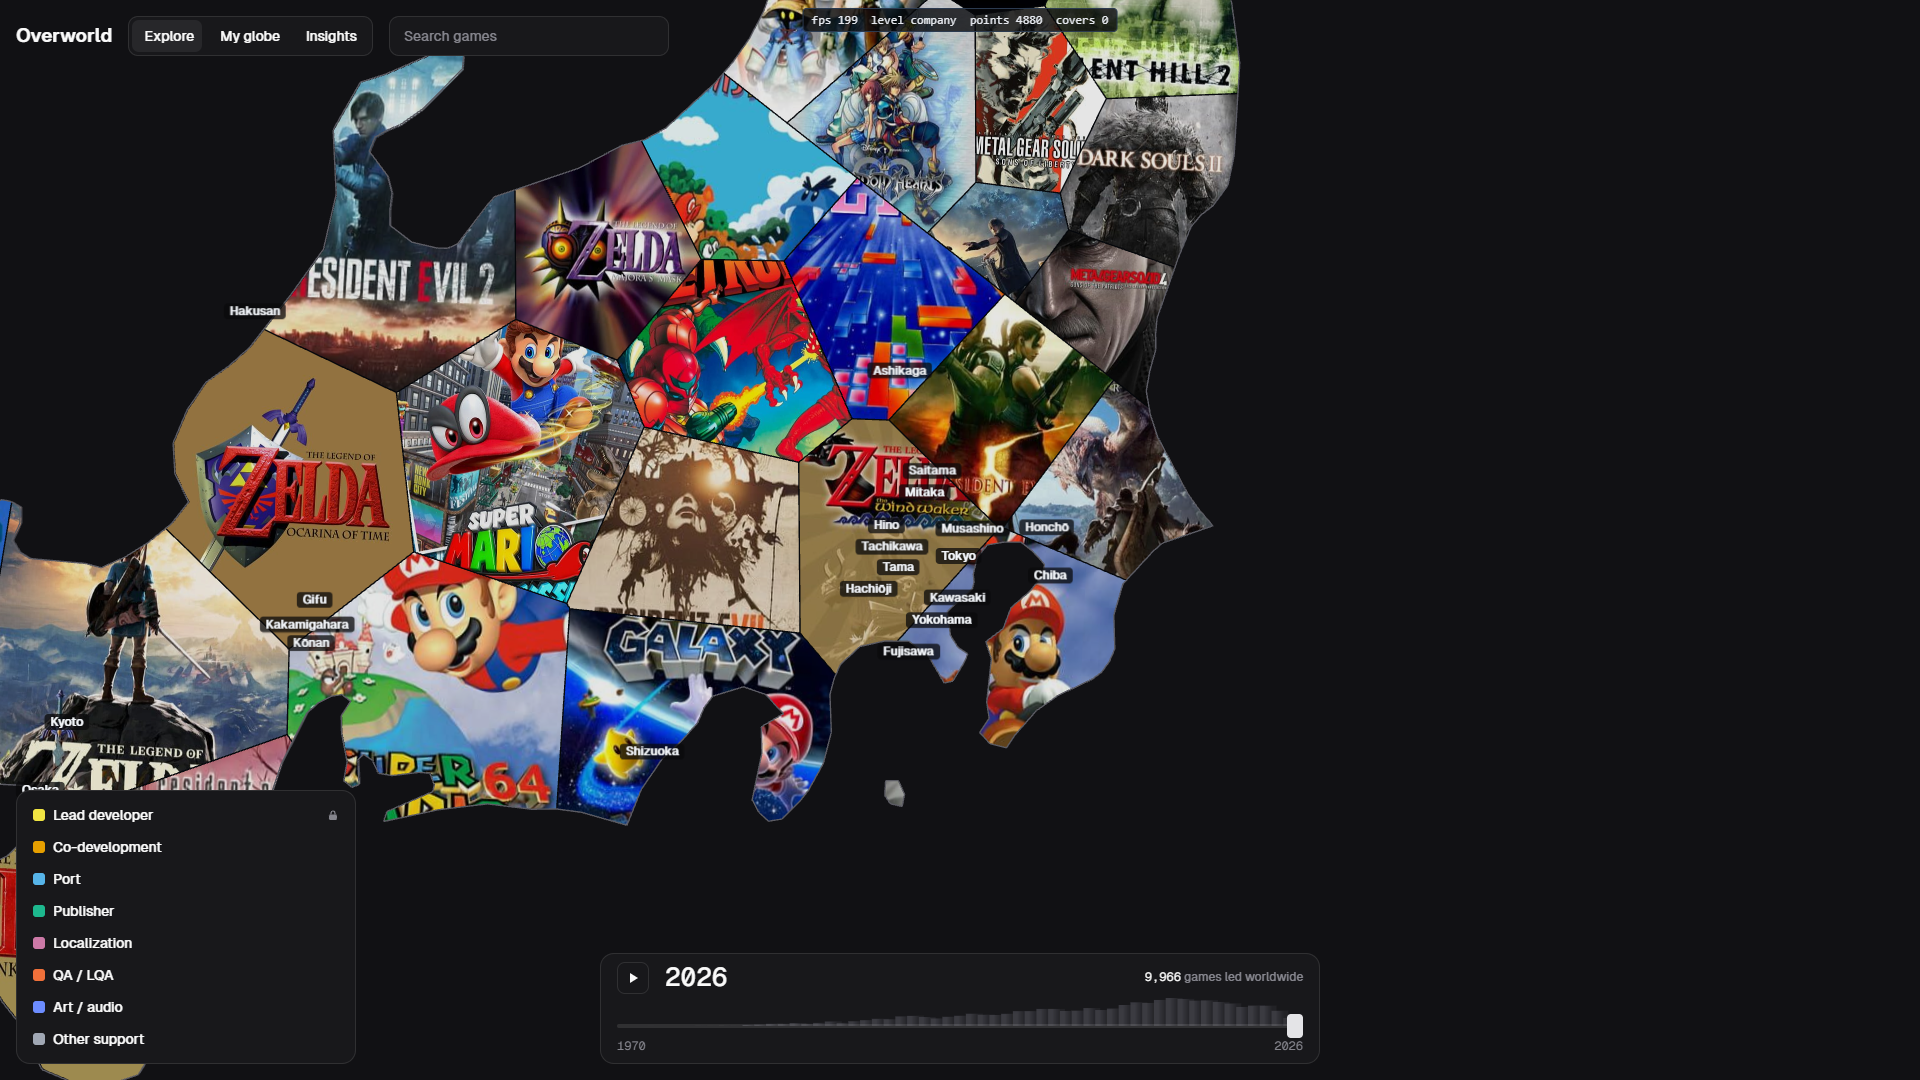
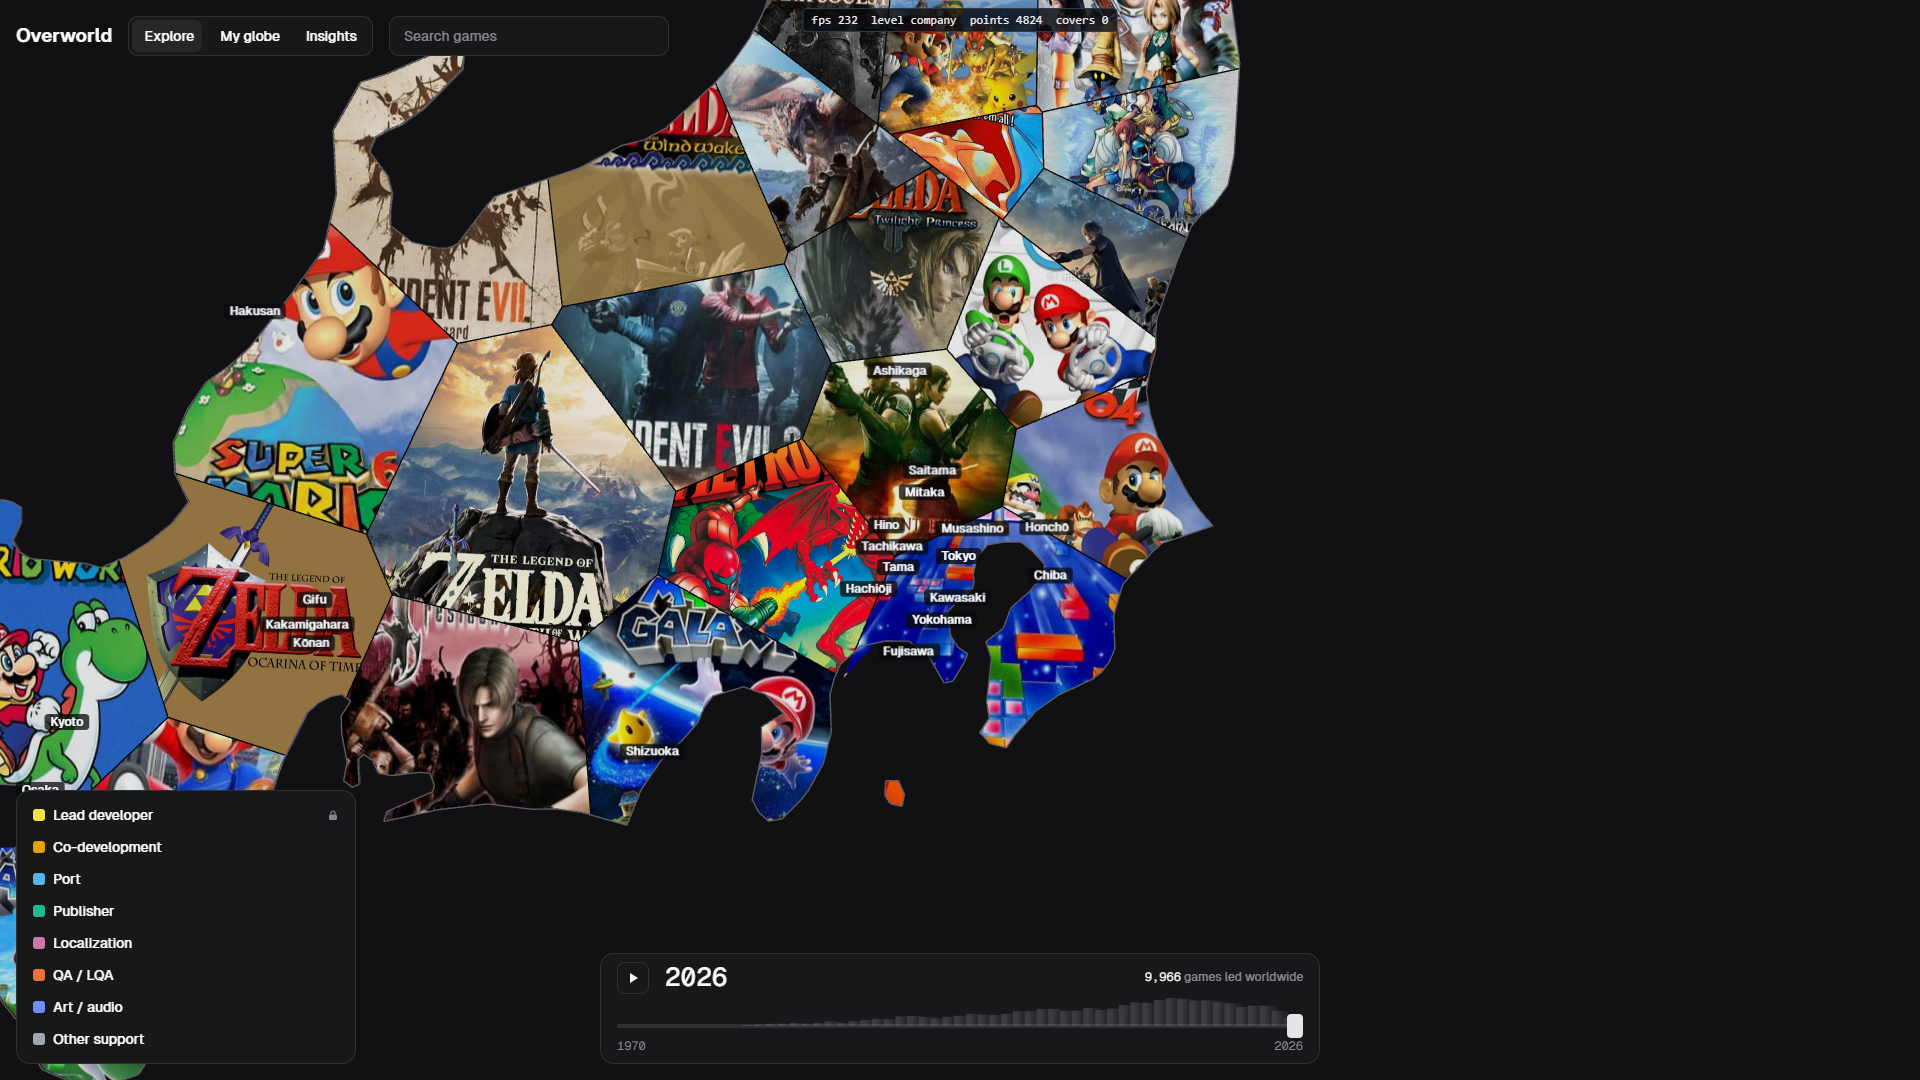
Refresh performance report with preloaded covers

diff --git a/reports/performance-real.md b/reports/performance-real.md
@@ -1,6 +1,6 @@
 # Globe performance, real data
 
-- Date: 2026-11-16T20:53:09.464Z
+- Date: 2026-11-16T21:09:54.452Z
 - GPU renderer: `ANGLE (NVIDIA, NVIDIA GeForce RTX 2060 SUPER (0x00001F06) Direct3D11 vs_5_0 ps_5_0, D3D11)` (vendor `Google Inc. (NVIDIA)`)
 - Browser: Chrome/157.0.8103.51, headful, viewport 1920x1080 at devicePixelRatio 1
 - Server: vite dev server (unminified React development build), data set `real`: 9966 games, 6385 companies, years 1970 to 2026, generatedAt 2026-11-16T18:25:27.009Z
@@ -13,14 +13,14 @@ Frame times come from a requestAnimationFrame loop inside the page. 1% low is 10
 
 | Scenario | Level | Points | Covers | Avg fps | 1% low fps | Median ms | p95 ms | Max ms | Frames | >20 ms | App fps | Result |
 |---|---|---|---|---|---|---|---|---|---|---|---|---|
-| a-idle-country | country | 74 | 0 | 240 | 232.6 | 4.2 | 4.3 | 4.3 | 1199 | 0% | 240 | PASS |
-| b-orbit-country | country | 74 | 0 | 240 | 228.6 | 4.2 | 4.3 | 5.2 | 1199 | 0% | 240 | PASS |
-| c-orbit-city-europe | city | 482 | 0 | 190.8 | 103.4 | 4.2 | 8.4 | 12.5 | 953 | 0% | 192 | PASS |
-| d-orbit-company-dense-city | company | 4880 | 0 | 191.4 | 63.2 | 4.2 | 8.4 | 25 | 957 | 0.1% | 189 | PASS |
-| e1-year-play-country | country | 74 | 0 | 226.1 | 41.2 | 4.2 | 4.3 | 391.6 | 4432 | 0.1% | 229 | PASS |
-| e2-year-play-company | company | 4880 | 0 | 230.2 | 82.8 | 4.2 | 4.3 | 25 | 4510 | 0.1% | 198 | PASS |
-| f-game-arcs | country | 74 | 0 | 240 | 232.6 | 4.2 | 4.3 | 4.3 | 1199 | 0% | 240 | PASS |
-| g-game-filter-toggle | country | 74 | 0 | 239.2 | 176.1 | 4.2 | 4.2 | 16.7 | 1435 | 0% | 240 | PASS |
+| a-idle-country | country | 74 | 0 | 240 | 230.8 | 4.2 | 4.3 | 4.4 | 1199 | 0% | 240 | PASS |
+| b-orbit-country | country | 74 | 0 | 239.4 | 184.9 | 4.2 | 4.3 | 8.4 | 1196 | 0% | 240 | PASS |
+| c-orbit-city-europe | city | 482 | 0 | 239.6 | 200.7 | 4.2 | 4.3 | 8.4 | 1197 | 0% | 239 | PASS |
+| d-orbit-company-dense-city | company | 4880 | 0 | 236.8 | 102.9 | 4.2 | 4.3 | 16.7 | 1184 | 0% | 240 | PASS |
+| e1-year-play-country | country | 74 | 0 | 238.7 | 154.5 | 4.2 | 4.3 | 20.8 | 4680 | 0% | 240 | PASS |
+| e2-year-play-company | company | 4880 | 0 | 236 | 92.2 | 4.2 | 4.3 | 29.3 | 4627 | 0% | 232 | PASS |
+| f-game-arcs | country | 74 | 0 | 239.4 | 186.6 | 4.2 | 4.3 | 16.8 | 1196 | 0% | 237 | PASS |
+| g-game-filter-toggle | country | 74 | 0 | 238.7 | 153.4 | 4.2 | 4.3 | 20.9 | 1431 | 0.1% | 240 | PASS |
 
 - a-idle-country: Idle at country level (default view, default slow auto-rotate). Screenshot docs/screenshots/real-a-idle-country.png
 - b-orbit-country: Orbiting continuously at country level. Screenshot docs/screenshots/real-b-orbit-country.png
@@ -30,14 +30,14 @@ Frame times come from a requestAnimationFrame loop inside the page. 1% low is 10
 - e2-year-play-company: Year slider playing 1970 to 2026 at 350 ms/year, company level over Tokyo. Screenshot docs/screenshots/real-e2-year-play-company.png
 - f-game-arcs: Game selected: Assassin's Creed Valhalla (19 roles, 4 role types), arcs animating. Screenshot docs/screenshots/real-f-game-arcs.png
 - g-game-filter-toggle: Same game, toggling "Other support" and "Publisher" on/off once per second. Screenshot docs/screenshots/real-g-game-filter-toggle.png
-  - 5 filter toggles; 0 frames over 20 ms, 0 of them within 250 ms after a toggle; worst frame 17 ms; slow frames (ms): 
+  - 5 filter toggles; 1 frames over 20 ms, 1 of them within 250 ms after a toggle; worst frame 21 ms; slow frames (ms): 21
 
 ## Functional checks
 
 - PASS **arcs**: expected 16 (from detail data, 9 roles enabled); scene arc objects 16; globe arcsData prop 16
 - PASS **role filter**: "Other support" aria-pressed true -> false -> true; scene arcs 16 -> 1 (expected 1) -> 16; screenshots differ: true
 - PASS **search**: typed "Knights of the Round", 1 results, first "Knights of the Round" (is target: true); Enter -> card heading "Knights of the Round", selectedGameId 6816
-- PASS **mosaic covers (country level)**: level country; 1197 mosaic cells, 133814 triangles, built in 1164 ms; 8126 covers loaded after 0.1 s (need >= 200), 936 large
+- PASS **mosaic covers (country level)**: level country; 1197 mosaic cells, 133814 triangles, built in 1547 ms; 1197 cells showing a cover after 0.1 s (need >= 200), 699 large
 - PASS **year slider**: keyboard on slider; readout "1985" (range 1985); places drawn (covers + dots) 5 at 1985 vs 74 at 2026; "208 games led worldwide"
 - PASS **year rebuilds the mosaic**: 2026 -> 1985: 1197 -> 1194 mosaic cells (need fewer, more than 0)
 - PASS **mosaic click**: hovered US centre at (960,540) at level country, tooltip "Doki Doki Literature Club! (2017) / Team Salvato, US"; click selected game 55935, card "Doki Doki Literature Club!"
